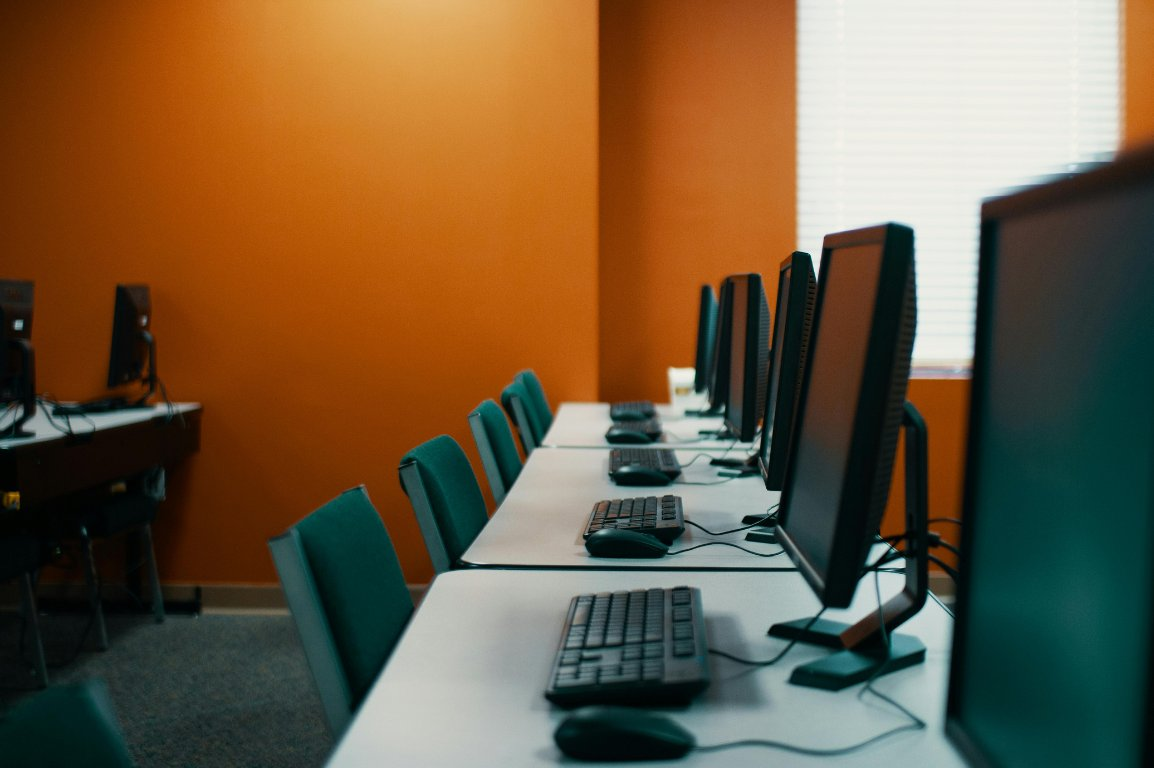
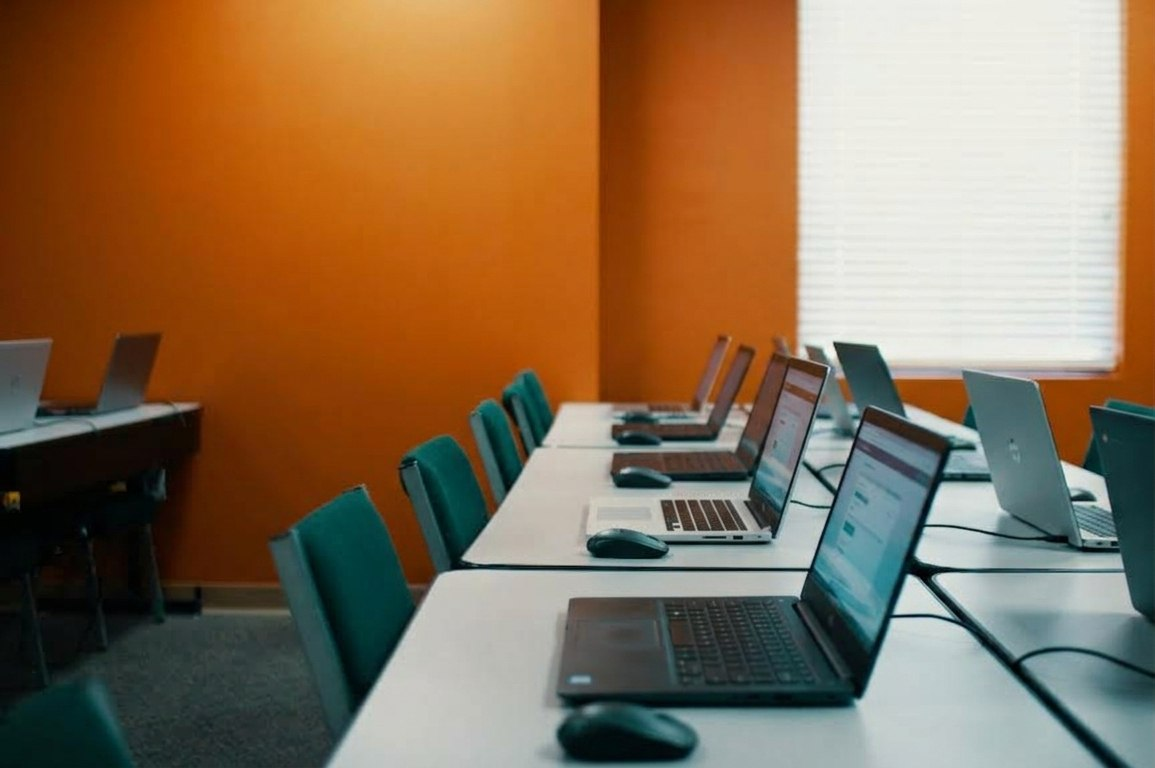
Remplace la photo de la salle informatique par la version ordinateurs portables (générée via Gemini par l'utilisateur), fidèle à l'offre réelle

diff --git a/digitalisation.html b/digitalisation.html
@@ -159,7 +159,7 @@
         </div>
         <div class="pack-image">
             <img src="images/Digitalisation.jpg" alt="Salle informatique équipée en ordinateurs">
-            <p style="margin-top:12px; font-size:0.8rem; color:#64748b;">Photo d'illustration — le programme fournit des <strong>ordinateurs portables</strong>, pas les postes fixes visibles sur cette photo.</p>
+            <p style="margin-top:12px; font-size:0.8rem; color:#64748b;">Illustration — salle informatique équipée en ordinateurs portables</p>
         </div>
     </div>
 
